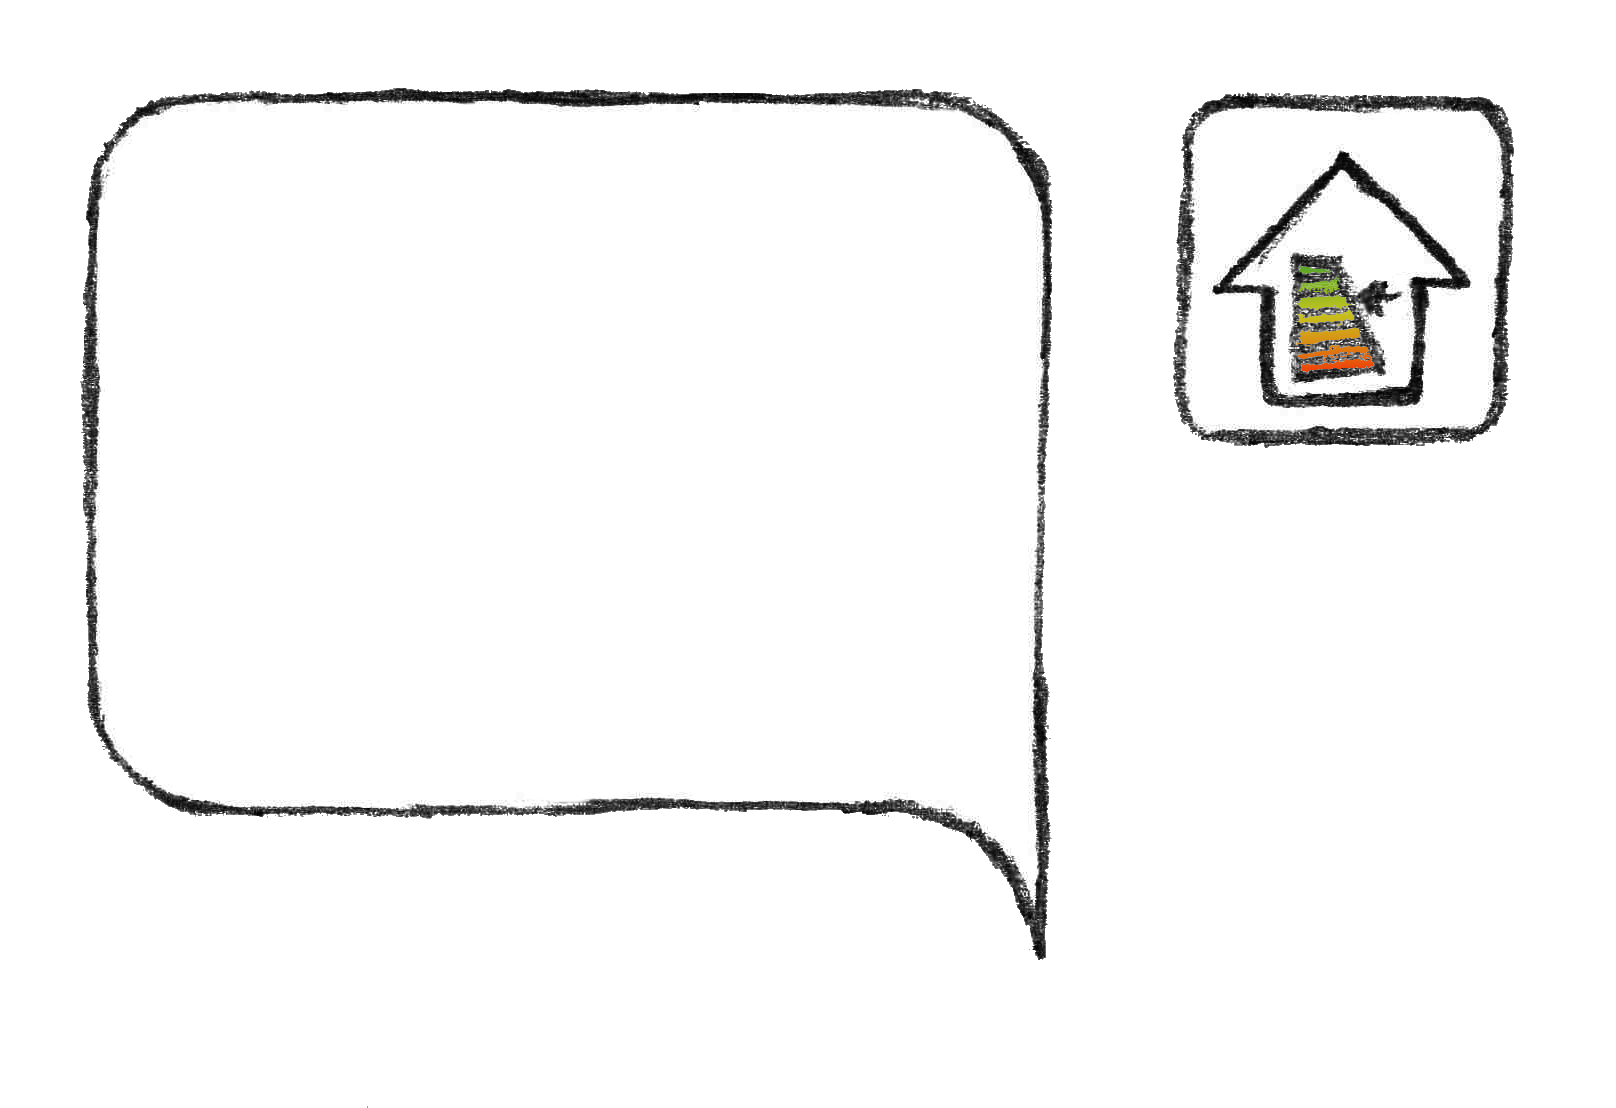
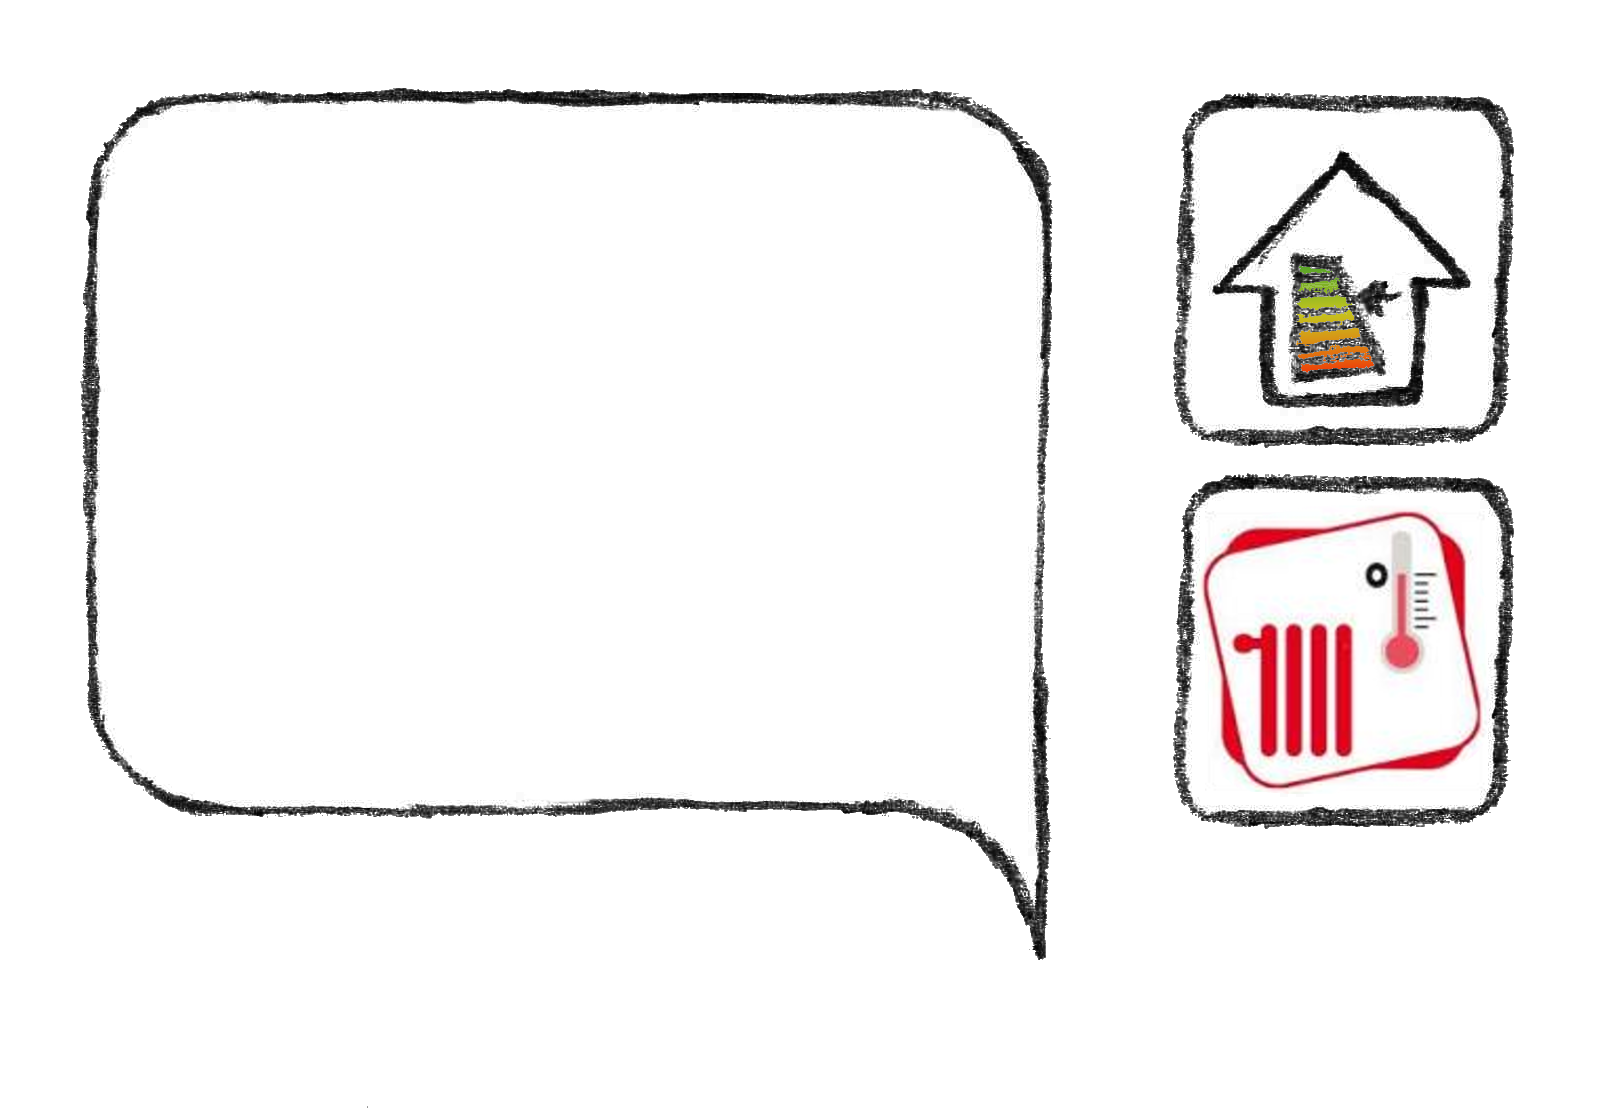
push ta mère

Changed region(s): [[0.7116, 0.4296, 0.9592, 0.7671]]

diff --git a/core/src/fr/limsi/rorqual/core/view/MainApplicationAdapter.java b/core/src/fr/limsi/rorqual/core/view/MainApplicationAdapter.java
@@ -236,26 +236,15 @@ public class MainApplicationAdapter extends InputAdapter implements ApplicationL
             }
         });
 
+        region = atlas.findRegion("chauffage");
+        TextureRegionDrawable chauffage_drawable = new TextureRegionDrawable(region);
+        Drawable chauffage_drawable2 = chauffage_drawable.tint(new Color(0.8f, 0.8f, 0.8f, 1));
+
+        textButtonStyle = new TextButton.TextButtonStyle(chauffage_drawable,chauffage_drawable2,null,fontBlack);
         /*** Ajout du bouton Chauffage ***/
-        Texture textureButtonChauffage = (Texture) assets.getInstance().get("textureBoutonChauffage");
-        Image imageChauffage = new Image(textureButtonChauffage);
-        ImageButton buttonChauffage = new ImageButton(imageChauffage.getDrawable()) {
-            Texture clicked_texture;
-            {
-                Pixmap p = new Pixmap((int)this.getWidth(),(int)this.getHeight(),Pixmap.Format.RGBA8888);
-                p.setColor(Color.RED);
-                p.drawRectangle(0, 0, (int)this.getWidth(),(int)this.getHeight());
-                p.drawRectangle(1, 1, (int)this.getWidth()-2,(int)this.getHeight()-2);
-                clicked_texture = new Texture(p);
-            }
-            @Override
-            public void draw(Batch batch, float arg1) {
-                super.draw(batch, arg1);
-                if (this.isChecked()){
-                    batch.draw(clicked_texture, this.getX(), this.getY());
-                }
-            }
-        };
+        Button buttonChauffage = new Button(textButtonStyle);
+        buttonChauffage.setName("Chauffage");
+
         buttonChauffage.addListener(new ClickListener() {
             public void clicked(InputEvent event, float x, float y) {
                 tb = dpeui.getPropertyWindow(DpeEvent.INFOS_CHAUFFAGE);
@@ -269,7 +258,7 @@ public class MainApplicationAdapter extends InputAdapter implements ApplicationL
         tableStage.add(buttonExit).right().width(150).padTop(10).padRight(10).row();
         tableStage.add(buttonMur).right().width(150).padTop(10).padRight(10).row();
         tableStage.add(buttonDPE).right().size(150, 150).padTop(10).padRight(10).row();
-        tableStage.add(buttonChauffage).right().padTop(10).padRight(10).row();
+        tableStage.add(buttonChauffage).right().size(150, 150).padTop(10).padRight(10).row();
         float tableWidth = tableStage.getPrefWidth();
         float tableHeight = tableStage.getPrefHeight();
         tableStage.setPosition(Gdx.graphics.getWidth()-tableWidth/2,Gdx.graphics.getHeight()-tableHeight/2);
